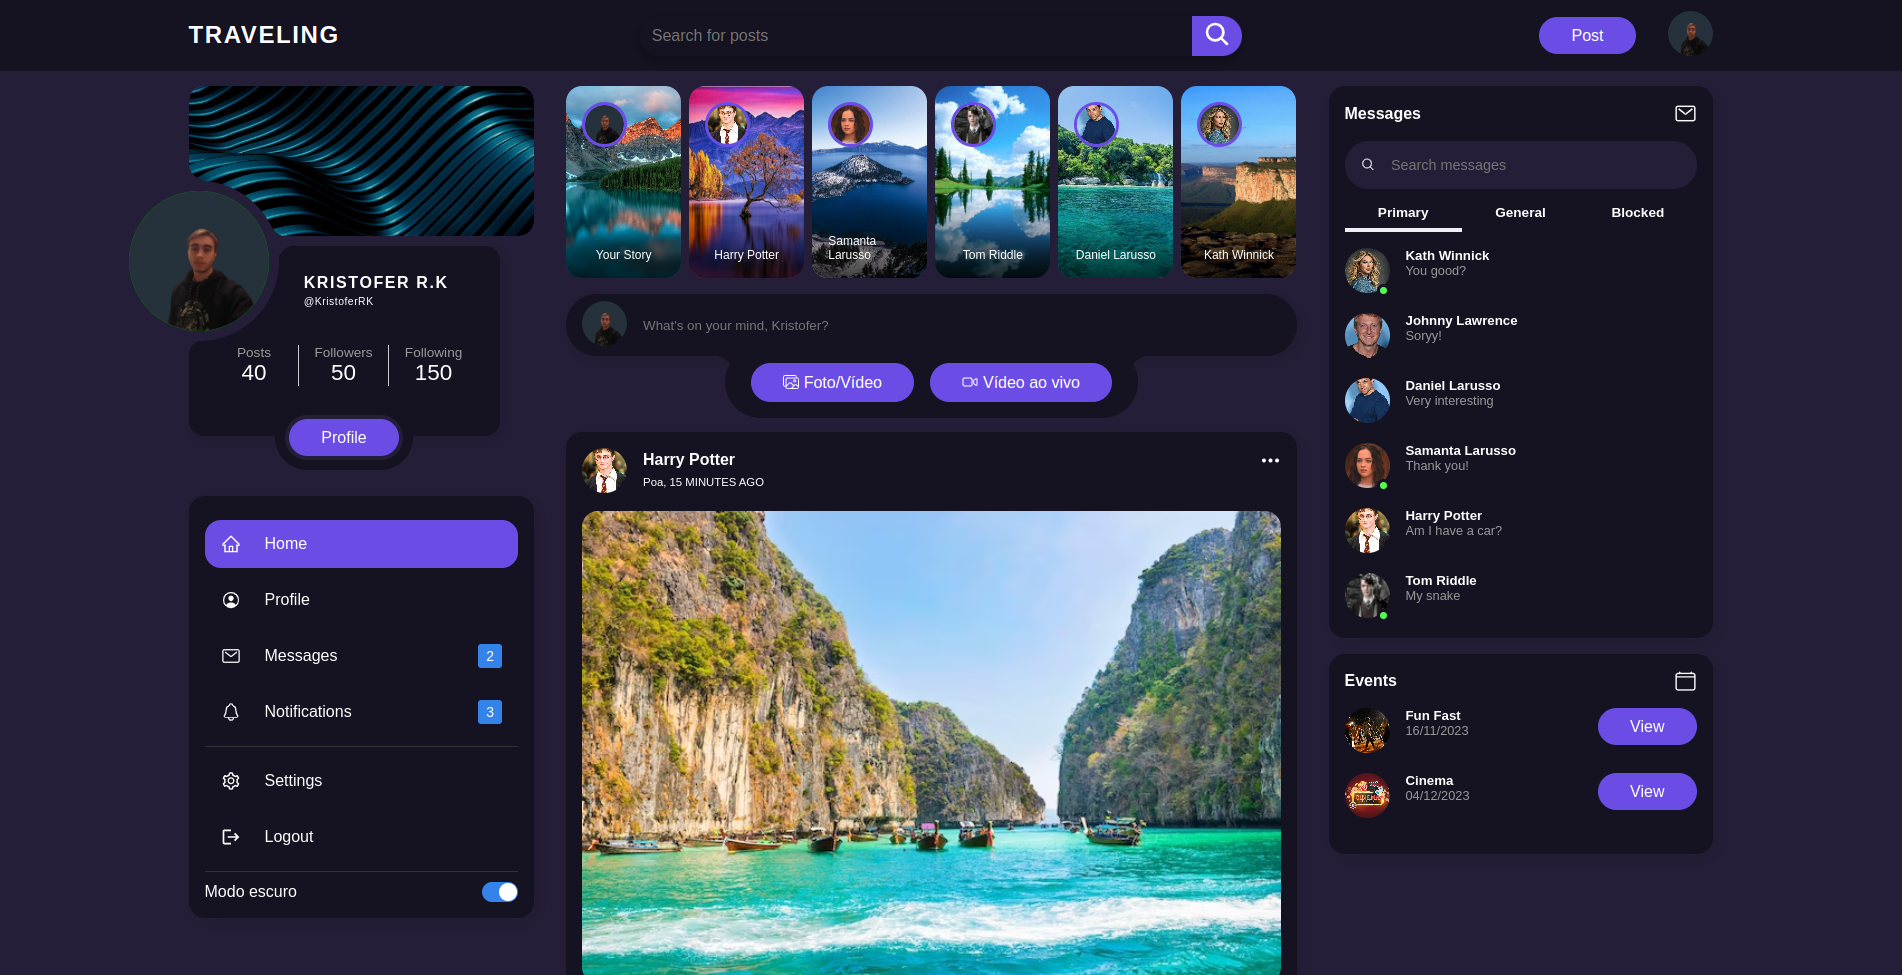
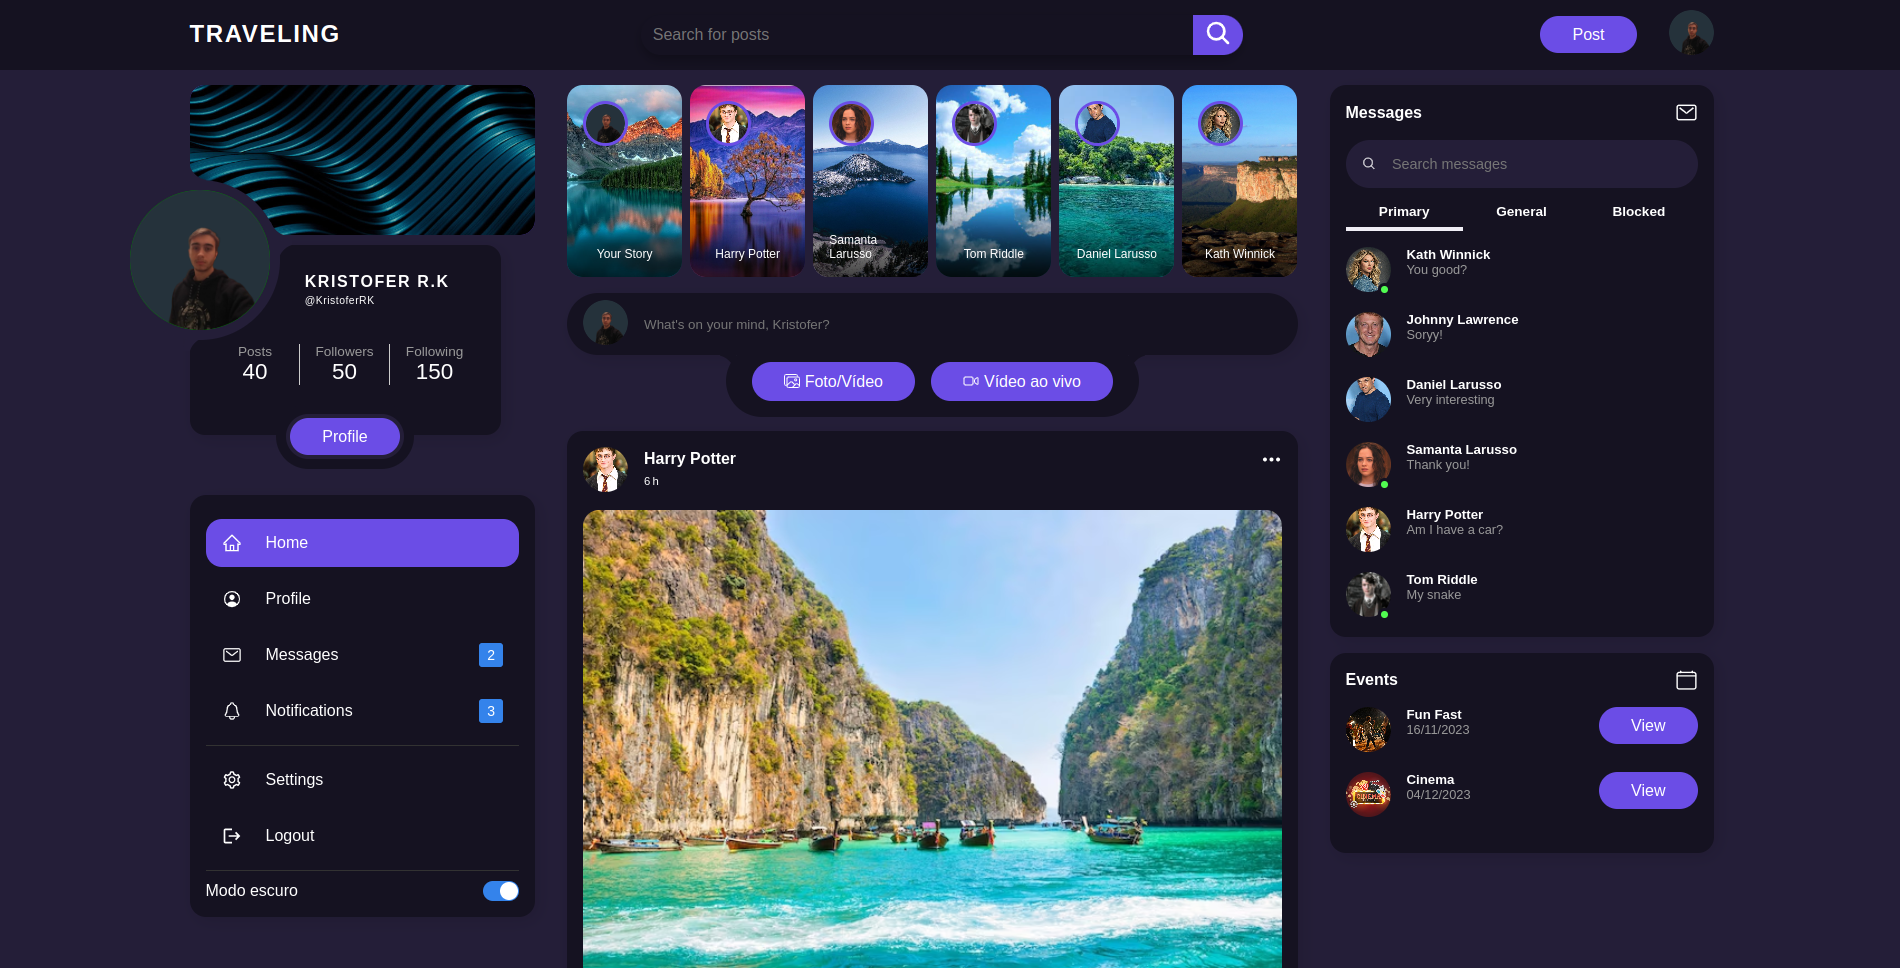
alter images

diff --git a/src/components/Feeds/index.jsx b/src/components/Feeds/index.jsx
@@ -29,6 +29,7 @@ import {
 	DropMenu,
 	Item,
 	NavLink,
+	Space,
 } from "./style";
 import Kris from "../../assets/images/foto3.png";
 export default function Feeds() {
@@ -42,17 +43,19 @@ export default function Feeds() {
 	}
 	const [posts, setPosts] = useState([
 		{
-			userPhoto: Kris,
-			photo:
-				"https://escolaeducacao.com.br/wp-content/uploads/2019/07/praias-Praia-de-Taipu-de-Fora-Pen%C3%ADnsula-de-Mara%C3%BA-Bahia-12.jpg",
-			userName: "Kristofer Krindges",
-		},
-		{
 			userPhoto:
 				"https://p2.trrsf.com/image/fget/cf/1200/1600/middle/images.terra.com/2023/04/14/594335823-harry-potter.jpg",
 			photo:
 				"https://img.freepik.com/fotos-premium/panorama-da-ilha-de-phi-phi_104337-9599.jpg",
 			userName: "Harry Potter",
+			time: 6,
+		},
+		{
+			userPhoto: Kris,
+			photo:
+				"https://escolaeducacao.com.br/wp-content/uploads/2019/07/praias-Praia-de-Taipu-de-Fora-Pen%C3%ADnsula-de-Mara%C3%BA-Bahia-12.jpg",
+			userName: "Kristofer Krindges",
+			time: 2,
 		},
 		{
 			userPhoto:
@@ -60,6 +63,7 @@ export default function Feeds() {
 			photo:
 				"https://upload.wikimedia.org/wikipedia/commons/7/7c/Profile_avatar_placeholder_large.png?20150327203541",
 			userName: "Samanta Lok",
+			time: 2,
 		},
 		{
 			userPhoto:
@@ -67,6 +71,7 @@ export default function Feeds() {
 			photo:
 				"https://upload.wikimedia.org/wikipedia/commons/7/7c/Profile_avatar_placeholder_large.png?20150327203541",
 			userName: "Jessica Almeida",
+			time: 2,
 		},
 		{
 			userPhoto:
@@ -74,6 +79,7 @@ export default function Feeds() {
 			photo:
 				"https://upload.wikimedia.org/wikipedia/commons/7/7c/Profile_avatar_placeholder_large.png?20150327203541",
 			userName: "Carlos Teves",
+			time: 2,
 		},
 		{
 			userPhoto:
@@ -81,6 +87,7 @@ export default function Feeds() {
 			photo:
 				"https://upload.wikimedia.org/wikipedia/commons/7/7c/Profile_avatar_placeholder_large.png?20150327203541",
 			userName: "Kristofer RK",
+			time: 2,
 		},
 	]);
 	return (
@@ -95,7 +102,10 @@ export default function Feeds() {
 								</ProfilePhoto>
 								<Ingo>
 									<Name>{value.userName}</Name>
-									<Small>Poa, 15 MINUTES AGO</Small>
+									<Small>
+										{value.time}
+										<Space>h</Space>
+									</Small>
 								</Ingo>
 							</User>
 							<Edit>

diff --git a/src/components/Feeds/style.js b/src/components/Feeds/style.js
@@ -49,6 +49,9 @@ export const ProfilePhoto = styled.div`
 export const Ingo = styled.div``;
 export const Name = styled.h3``;
 export const Small = styled.small``;
+export const Space = styled.span`
+	margin-left: 2px;
+`;
 export const Edit = styled.span`
 	position: relative;
 	font-size: 1.3rem;
